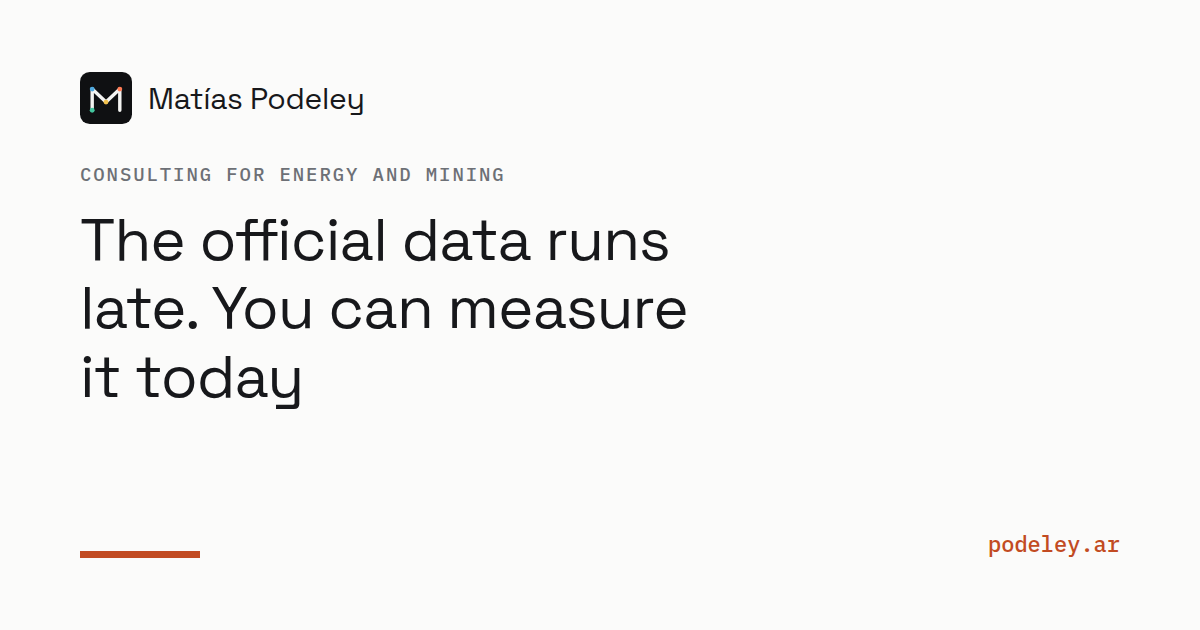
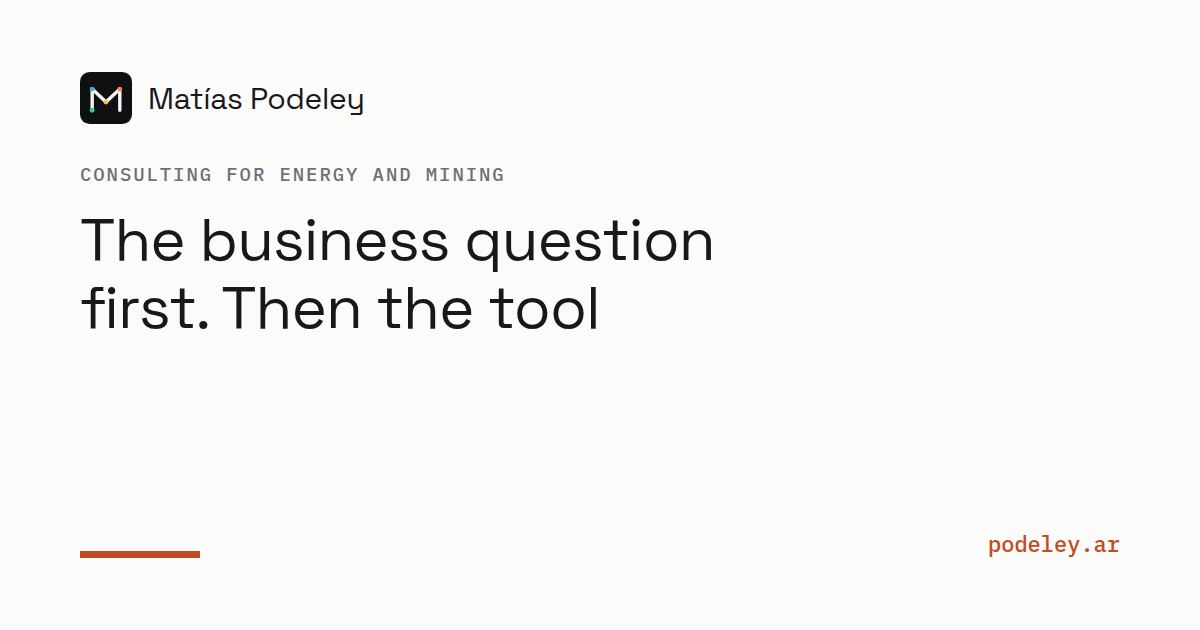
El hook deja de medir: "Primero la pregunta de negocio. Después la herramienta"
"El dato oficial tarda. Hoy se puede medir" quedó desalineado con el relato
de consultoría y era otro under sell (dicho por él, elegido entre tres
opciones). El dato oficial sobrevive en la sección La prueba. La bajada no
repite el título: el criterio para dar con esa pregunta viene de dieciocho
años en energía. OG del home regenerada; el About del kit abre igual.

Changed region(s): [[0.0617, 0.4524, 0.5858, 0.5429], [0.1542, 0.3317, 0.6167, 0.4222], [0.0617, 0.573, 0.2775, 0.6635]]

diff --git a/src/pages/index.es.html b/src/pages/index.es.html
@@ -21,8 +21,8 @@
 
 <section class="hero wrap">
   <p class="kicker"><a class="link-plain" href="/perfil/">Matías Podeley</a> · Reservorios y desarrollo de negocio · Buenos Aires</p>
-  <h1>El dato oficial tarda. Hoy se puede medir</h1>
-  <p class="hero-sub">Consultoría para petróleo, gas y minería: proyectos de la idea a la ejecución, con el equipo y las contrapartes que el caso pida, y con datos e IA en las etapas donde más rinden. El criterio viene de dieciocho años en energía: saber qué pregunta decide un negocio, y saber construir la herramienta que la responde. Diez están en línea como prueba, con las fuentes a la vista para que su equipo las audite: qué hizo la competencia mientras el registro oficial todavía no lo dice, quién tiene el suelo en siete provincias, cómo viene la red de gas esta mañana, y de dónde sale cada número.</p>
+  <h1>Primero la pregunta de negocio. Después la herramienta</h1>
+  <p class="hero-sub">Consultoría para petróleo, gas y minería: proyectos de la idea a la ejecución, con el equipo y las contrapartes que el caso pida, y con datos e IA en las etapas donde más rinden. El criterio para dar con esa pregunta viene de dieciocho años en energía, del lado que toma las decisiones. Diez herramientas están en línea como prueba, con las fuentes a la vista para que su equipo las audite: qué hizo la competencia mientras el registro oficial todavía no lo dice, quién tiene el suelo en siete provincias, cómo viene la red de gas esta mañana, y de dónde sale cada número.</p>
   <p class="hero-cta"><a class="btn btn--primary" href="/consultoria/" data-goatcounter-click="home-a-consultoria">Forma de trabajo</a> <a class="btn btn--outline" href="https://calendar.app.google/bErn9ZNtQpSUbjxh6" target="_blank" rel="noopener" data-goatcounter-click="agenda-home">Agendar 20 minutos</a> <a class="link-plain" href="#areas">Ver por área <span class="arw">↓</span></a></p>
 </section>
 

diff --git a/src/pages/index.en.html b/src/pages/index.en.html
@@ -21,8 +21,8 @@
 
 <section class="hero wrap">
   <p class="kicker"><a class="link-plain" href="/en/perfil/">Matías Podeley</a> · Reservoir engineering &amp; business development · Buenos Aires</p>
-  <h1>The official data runs late. You can measure it today</h1>
-  <p class="hero-sub">Consulting for oil, gas and mining: projects from idea to execution, with the team and the counterparties each case calls for, and with data and AI at the stages where they pay off most. The judgement comes from eighteen years in energy: knowing which question decides a business, and knowing how to build the tool that answers it. Ten are live as proof, with the sources in the open for your team to audit: what competitors did while the official registry still says nothing, who holds the ground across seven provinces, how the gas grid looks this morning, and where every number comes from.</p>
+  <h1>The business question first. Then the tool</h1>
+  <p class="hero-sub">Consulting for oil, gas and mining: projects from idea to execution, with the team and the counterparties each case calls for, and with data and AI at the stages where they pay off most. The judgement for finding that question comes from eighteen years in energy, on the side that makes the calls. Ten tools are live as proof, with the sources in the open for your team to audit: what competitors did while the official registry still says nothing, who holds the ground across seven provinces, how the gas grid looks this morning, and where every number comes from.</p>
   <p class="hero-cta"><a class="btn btn--primary" href="/en/consultoria/" data-goatcounter-click="home-to-consulting">How the work goes</a> <a class="btn btn--outline" href="https://calendar.app.google/bErn9ZNtQpSUbjxh6" target="_blank" rel="noopener" data-goatcounter-click="agenda-home-en">Book 20 minutes</a> <a class="link-plain" href="#areas">Browse by area <span class="arw">↓</span></a></p>
 </section>
 
